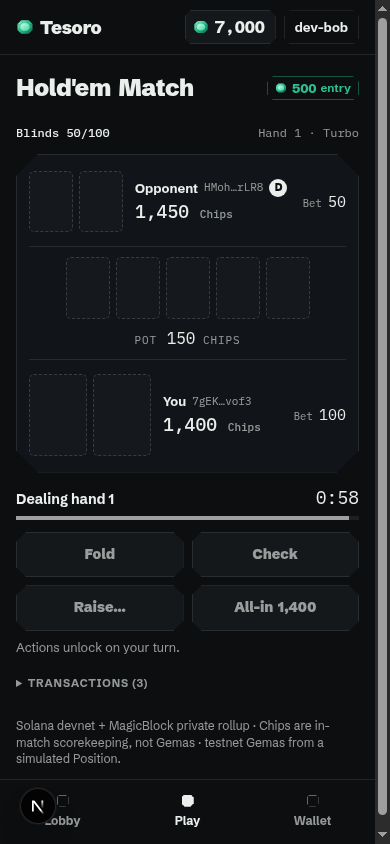
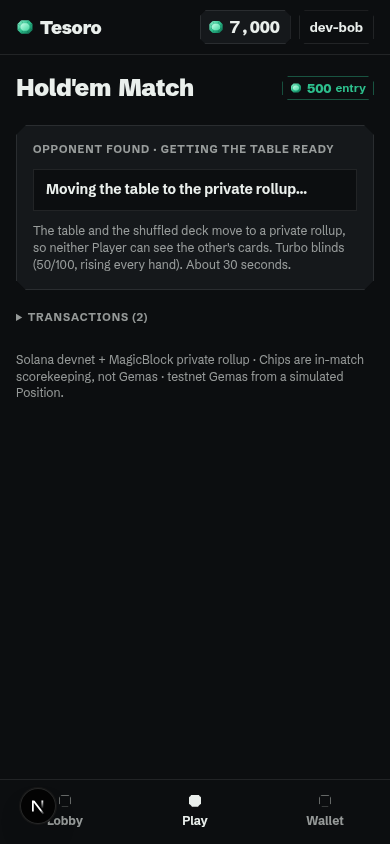
docs(holdem): browser-played devnet + TEE Matches with signatures and 390px screens

diff --git a/app/src/games/holdem/HoldemTable.tsx b/app/src/games/holdem/HoldemTable.tsx
@@ -50,7 +50,8 @@ export function HoldemTable({ table: t, seat, hole, busy, ended, onAct, onClaim 
   const expired = !ended && t.status === STATUS.live && remaining < -1;
 
   const board = playing ? t.board : showLast ? lh.board : t.board;
-  const myCards = hole && (playing ? hole.handNo === t.handNo : hole.handNo === lh.handNo) ? hole.cards : null;
+  const shownMine = showLast && lh.showdown && lh.shown[seat][0] !== NO_CARD ? lh.shown[seat] : null;
+  const myCards = hole && (playing ? hole.handNo === t.handNo : hole.handNo === lh.handNo) ? hole.cards : playing ? null : shownMine;
   const oppCards: [number, number] | null = playing
     ? null
     : showLast && lh.showdown && lh.shown[opp][0] !== NO_CARD

diff --git a/docs/games/holdem.md b/docs/games/holdem.md
@@ -82,6 +82,51 @@ Match `1790715851010`: seat 1 never contributed entropy; after 60 s a third part
 
 Match `1790716013129`: seat 0 idle for three turns; three permissionless `claim_timeout`s (tee) `zS5KEbSH...`, `2RywHich...`, `CkGwwaCx...` (the third forfeited it), `finalize` (base) [`3oMzpshR...p61Ma8`](https://explorer.solana.com/tx/3oMzpshR19q92sNTQ1FPi6pxarb5qpxDq6DwWnHo6hYLVhqC4xDzoj5WTeXhbRVtQvNCXnMaLk8F92THCop61Ma8?cluster=devnet). Present Player +950. Signatures in `evidence-idle.json` and `evidence-noshow.json`.
 
+## Browser evidence (web app, two dev-wallet Accounts, devnet + TEE, 2026-09-30)
+
+The table is in the web app: Lobby Hold'em card (entry 500 / 1,000 / 2,500) → Queue (`/play/queue?game=holdem&entry=500`) or Challenge link (`/play/challenge?game=holdem`) → Match page (`/play/match/<id>`, which picks the Hold'em view from the tesoro_core Match's game). Code: `app/src/games/holdem/` (`useHoldemMatch.ts` drives the non-betting steps in call order `create_match`, `delegate_match`, `init_permissions`, then per hand `contribute_entropy` (each Player) + `request_vrf` + `deal`, and at the end `close_match` + `finalize`; both clients run it, one first and the other after a grace period, and a lost race is harmless). Demo Matches use `SPEED_TURBO`. Two headless Chromium sessions (agent-browser, 390 x 844) signed in as `dev-alice` (`HMohE...rLR8`) and `dev-bob` (`7gEK...vof3`), each funded with the demo Advance (7,500 simulated Gemas), entry 500. TEE transactions are private (no public explorer page); base-layer signatures link to Solana Explorer.
+
+Screens (390px) in `app/docs/screens/holdem-*.png`: Lobby, waiting for an opponent, Challenge link, table setup, dealing, own hole cards, showdown reveal, fold result, bet slider, claim timeout, match over, Won and Lost results; `holdem-desktop-1280.png` for desktop.
+
+### A. Queue Match `3581438379834` (alice opened, bob joined from the Queue): 4 hands, alice wins all 3,000 Chips
+
+Exercised in the browser: check/call preflop and postflop, a bet to 400 from the slider (Pot preset), a showdown (bob wins with a kicker on a paired board), a **Claim timeout** by bob after alice's 30 s clock ran out (alice auto-folded, "Missed 1 of 3 turns" shown), all-in and call, showdown reveal, then close and settle. Table `6dgo62iGtBjjPGw4AqEX75myJp7BSCeKNK2dr85zo6fi`. alice +450 Gemas (won 950 back of 500 entered, 50 Gemas fees), bob -500.
+
+| Step | Layer | Signature |
+|---|---|---|
+| tesoro_core open_match (alice) | base | [`5hRuEcT9...LsexQ`](https://explorer.solana.com/tx/5hRuEcT9Dq5LLPzadRPq6pcKxVXVN6pYbcppQwKbni4NZVxEo1n1gYHBcWyMwgnc9MCtxuh9k5cecgf2HM3LsexQ?cluster=devnet) |
+| tesoro_core join_match (bob) | base | [`4KdtGSaQ...ve1nC3`](https://explorer.solana.com/tx/4KdtGSaQTET5QowiLve886mwDxn3B2Wn8zjcGzePAGtTUFyXAayn7UzKzziFT5NHsSsfqGotZ5vAuMVpugve1nC3?cluster=devnet) |
+| create_match (bob) | base | [`4UMHbDk8...tUZJ`](https://explorer.solana.com/tx/4UMHbDk8fc3txXQA7K45Ti1aLhMacjU1bGNiAoUxa4q2jyundC3sNyGydH6kTTBa2rrDetNeBVB8GnMr8c4WtUZJ?cluster=devnet) |
+| delegate_match | base | [`SCMiQTK3...T9u8BqXniV6`](https://explorer.solana.com/tx/SCMiQTK3VHQYcdytAxE5wRiXuvwAQzWFBNAzW5ThTKJ35HLMex5x3gkKqzuLBPEKHRPPGDPmeEk6T9u8BqXniV6?cluster=devnet) |
[8 lines of base64/hex data omitted]
+| close_match commit | base | [`3rnCCe7z...FRsQ`](https://explorer.solana.com/tx/3rnCCe7zEQvA9oSnZcMwsxYLhQp2koXUo5UqXEmQtoPSZpKxUszgBXEjSdWAMeCSu84nBag2twa58QfjFZSxFRsQ?cluster=devnet) |
+| **finalize (bob's client, CPI settle_match)** | base | [`4uBFPi6V...v1cNc`](https://explorer.solana.com/tx/4uBFPi6VTkcreqk5BfHuEJ4Xu9jkBSJ5rWUSUW74CGVrNmMxhhpL94xFMdQBMTEYYAc16DuggY4cKkQ6ki6v1cNc?cluster=devnet) |
+
+### B. Challenge Match `3581439372503` (alice created the link, bob opened it): 2 hands, alice wins
+
+Challenge link flow, table set-up screen, a bet/raise from the slider (alice raise to 200, bob **folds**: "Your opponent folded" result, no cards revealed), then bob all-in and alice call, showdown, settle. Table `9WHGjsn4ZTfJyvRUJu6qCmgQsD6H8u8FcjU5BFRvsxdv`. alice +450 Gemas, bob -500.
+
+| Step | Layer | Signature |
+|---|---|---|
+| tesoro_core open_match (alice, Challenge) | base | [`3CQz5FLt...K8k3`](https://explorer.solana.com/tx/3CQz5FLt4nW9MuT27iGMaNa4B7sDmAUgoXaoaeJHaT2ccstAw8pEUd9UiLaTj6uq7ST3dH8Mdru1cyBDak6KK8k3?cluster=devnet) |
+| tesoro_core join_match (bob, from the link) | base | [`zQf7mUEQ...q7tT2`](https://explorer.solana.com/tx/zQf7mUEQ9Nyv8pdiCigm4xpWzGvtAub8KQbrYRwpZ3QUNYm4JmYCJFHhsyEEErbxRGucV286uxPMj2AUP9q7tT2?cluster=devnet) |
+| create_match | base | [`5ks5qPdq...9Gjsmw`](https://explorer.solana.com/tx/5ks5qPdqefvQhz6uRN3VvDKFeRyqcK4AF4hCdsaR2CJKr4k7YPpJTAKRmTMHAoUY7TBQTuFnA5bkcX5t1i9GJsmw?cluster=devnet) |
+| delegate_match | base | [`3AYFpFp5...zJwZV`](https://explorer.solana.com/tx/3AYFpFp5rB8mcrerThUdqcGnZpANXLi7yMraUVSey9ygP96P3HdPJPYW8sXc19AfqYwxh3MZckBWpFjAjd4zJwZV?cluster=devnet) |
[3 lines of base64/hex data omitted]
+| close_match commit | base | [`SHMPbU1f...paTsP8`](https://explorer.solana.com/tx/SHMPbU1f3SCprGdQGxWDpv5ajMeVRDdbR4b1p3GycUi9PbZjhwDT6AeGyyTbF2eWQpPxXaJHhatHUDvcqpaTsP8?cluster=devnet) |
+| **finalize (bob's client, CPI settle_match)** | base | [`5Rci41rk...eb15H6`](https://explorer.solana.com/tx/5Rci41rkTv5PX9MTXrvTUEry49o6dTdy9sNx58hwqEgVe3wvzP2FWwdhUF8TTSaqVSVMmhn8hgDof3MCKebe15H6?cluster=devnet) |
+
+Alice's client also sent a second `finalize` (`5c7im2hM...`) that failed with the Match already settled: both clients try, the loser of the race is harmless (tolerated in `useHoldemMatch.ts`).
+
 ## Verification status
 
 - `cargo test -p holdem`: 32 unit tests + 13 LiteSVM tests against the real `holdem.so` and `tesoro_core.so`. LiteSVM has no delegation, permission or VRF programs, so the rollup-only steps (`init_permissions`, VRF callback, `close_match`) are stood in for by writing the state they produce; `deal`, `act`, `claim_timeout`, `create_match` and `finalize` run as deployed.
